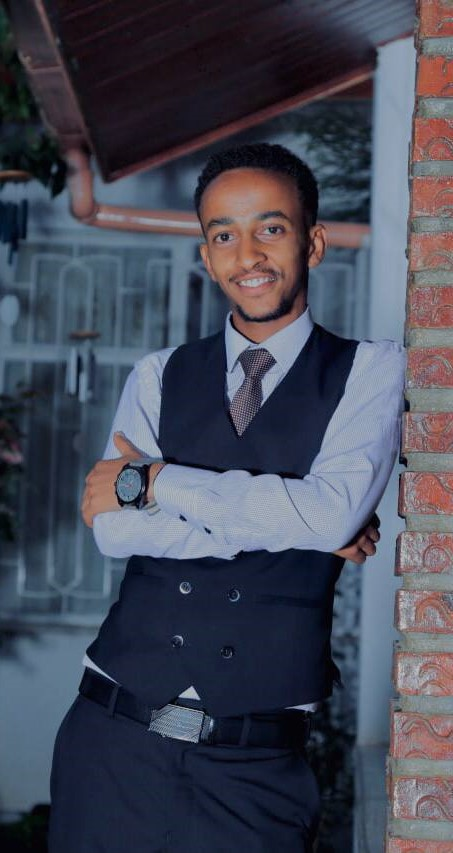
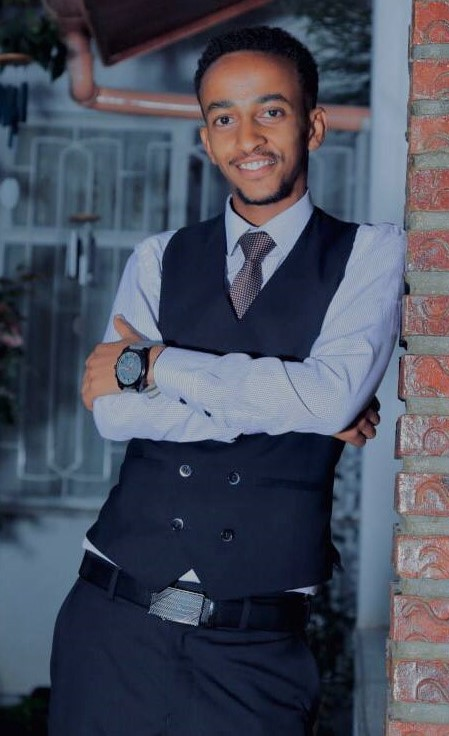
header almost complete

diff --git a/src/Components/Header/Header.styled.js b/src/Components/Header/Header.styled.js
@@ -1,22 +1,20 @@
 import styled from "styled-components";
 
 export const MainContainer = styled.div`
-    width: var(75%);
+    width: 75%;
     margin: 0 auto;
       /* ===== MEDIA QUERIES (Medium Devices) ======*/
       @media screen and (max-width: 1024px) {
-       .container{
         width: 86%;
-       } 
+       
        section{
         margin-top: 6rem;
        }
     }
     /* ===== MEDIA QUERIES (Small Devices) ======*/
     @media screen and (max-width: 600px) {
-       .container{
+       
         width: 90%;
-       } 
        section >h2{
         margin-bottom: 2rem;
        }
@@ -25,8 +23,17 @@ export const MainContainer = styled.div`
 
 export const StyledHeader = styled.header`
     height: 100vh;
-    padding-top: 7rem;
+    padding-top: 3rem;
     overflow: hidden;
+
+    // media query for midium screens 
+    @media screen and (max-width: 1024px) {
+        height: 68vh;
+    }
+    @media screen and (max-width: 600px) {
+        height: 100vh;
+    }
+
 `
 export const StyledHeaderContainer = styled.div`
     text-align: center;
@@ -50,7 +57,7 @@ export const StyledHeaderSocials = styled.div`
     align-items: center;
     gap: 0.8rem;
     position: absolute;
-    left: 15rem;
+    left: 7rem;
     bottom: 3rem;
     ::after{
         content: '';
@@ -58,6 +65,10 @@ export const StyledHeaderSocials = styled.div`
         height: 4rem;
         background: #4db5ff;
     } 
+    @media screen and (max-width: 600px) {
+        display: none;
+    }
+
 `
 // image
 export const StyledImage = styled.div`
@@ -66,7 +77,7 @@ export const StyledImage = styled.div`
     height: 30rem;
     position: absolute;
     left: calc(50% - 11rem);
-    margin-top: 4rem;
+    margin-top: 3rem;
     border-radius: 12rem 12rem 0 0;
     overflow: hidden;
    // padding: 5rem 1.5rem 1.5rem 1.5rem;
@@ -74,10 +85,13 @@ export const StyledImage = styled.div`
 `
 export const StyledLink = styled.a`
     position: absolute;
-    right: 12rem;
+    right: 6rem;
     bottom: 5rem;
     transform: rotate(90deg);
     font-weight: 300;
     font-size: 0.9rem;
+    @media screen and (max-width: 600px) {
+        display: none;
+    }
 
 `

diff --git a/src/Components/Header/Header.js b/src/Components/Header/Header.js
@@ -1,16 +1,16 @@
 import React from 'react'
 import CTA from './CTA'
 import { StyledHeader, StyledHeaderContainer, MainContainer, StyledImage, StyledLink } from './Header.styled'
-import ME from '../../Assets/My-picture1.jpg';
+import ME from '../../Assets/me.png';
 import HeaderSocials from './HeaderSocials';
 
 
 function Header() {
     return (
+        <MainContainer>
+            <StyledHeader>
+                <StyledHeaderContainer >
 
-        <StyledHeader>
-            <StyledHeaderContainer >
-                <MainContainer>
                     <h5>Hello I'm</h5>
                     <h1>Yonathan Samuel</h1>
                     <h5 className='text-light'>FullStack Developer</h5>
@@ -24,9 +24,10 @@ function Header() {
                     <StyledLink>
                         <a href='#contact' className='scroll__down'>Scroll Down</a>
                     </StyledLink>
-                </MainContainer>
-            </StyledHeaderContainer>
-        </StyledHeader>
+
+                </StyledHeaderContainer>
+            </StyledHeader>
+        </MainContainer>
 
 
     )

diff --git a/src/App.styled.js b/src/App.styled.js
@@ -100,9 +100,9 @@ const GlobalStyle = createGlobalStyle`
         color: var(--color-bg);
     }
     img{
-        display: block;
-        width: 100%;
-        object-fit: cover;
+       display: block;
+       width: 100%;
+       object-fit: cover;
     }
 
 
